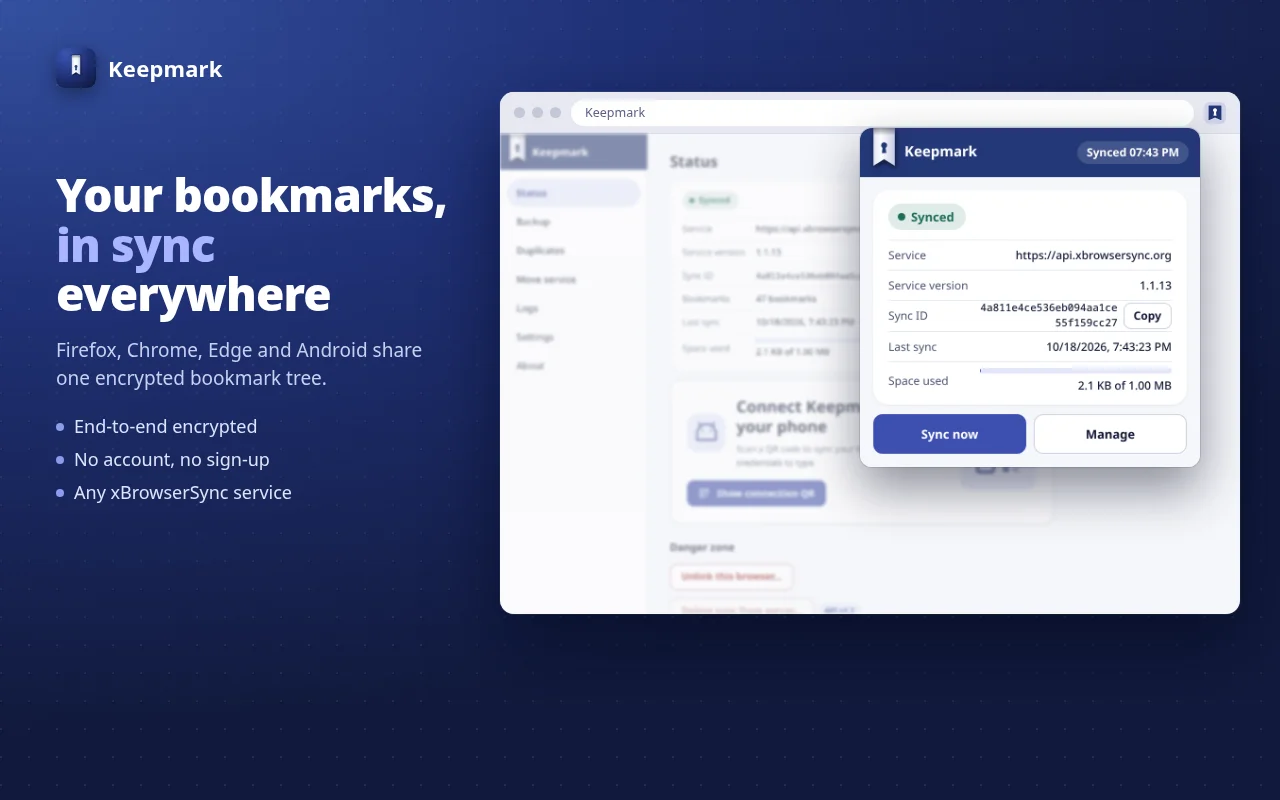
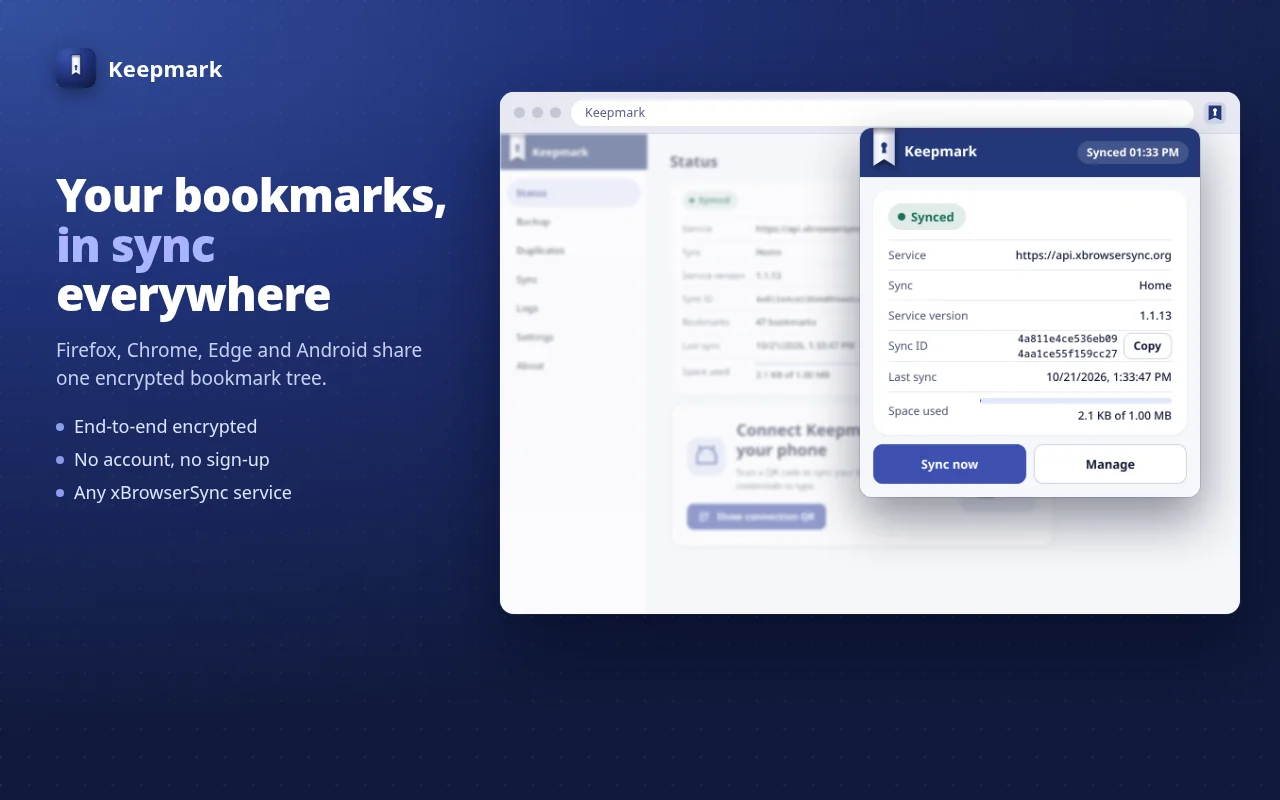
Landing: several syncs in the hero, features and browser gallery

Changed region(s): [[0.5312, 0.3438, 0.9375, 0.75], [0.5938, 0.3438, 0.6562, 0.4688], [0.4062, 0.3438, 0.4375, 0.375]]

diff --git a/index.html b/index.html
@@ -43,8 +43,9 @@
           Keepmark keeps the same bookmarks on all your browsers and your Android
           phone. Everything is encrypted on your device before it leaves: the
           server stores only ciphertext, and your password is never sent to it.
-          Linking a phone by QR hands the password from your browser to your own
-          phone, directly and only when you ask.
+          Keep several syncs side by side — work, home, family — and switch in a
+          click. Linking a phone by QR hands the password from your browser to
+          your own phone, directly and only when you ask.
         </p>
         <div class="cta">
           <a class="btn btn-primary" href="#get">Get Keepmark</a>
@@ -131,9 +132,9 @@
         <p>Find links saved more than once and remove them in bulk. The last copy of each link is always kept.</p>
       </div>
       <div class="card">
-        <div class="ico"><svg viewBox="0 0 24 24" fill="none" stroke="currentColor" stroke-width="2" stroke-linecap="round" stroke-linejoin="round"><path d="M5 12h14"/><path d="M13 6l6 6-6 6"/></svg></div>
-        <h3>Move between services</h3>
-        <p>Move your bookmarks to another server, into a new or existing sync, and change your sync password.</p>
+        <div class="ico"><svg viewBox="0 0 24 24" fill="none" stroke="currentColor" stroke-width="2" stroke-linecap="round" stroke-linejoin="round"><path d="M4 7h10"/><path d="M11 4l3 3-3 3"/><path d="M20 17H10"/><path d="M13 14l-3 3 3 3"/></svg></div>
+        <h3>Several syncs, one active</h3>
+        <p>Work, home, a shared family sync or a second server: every sync keeps its own service, password and bookmarks, and you switch in a click — optionally behind a short sync-change password.</p>
       </div>
     </div>
   </div>
@@ -176,6 +177,7 @@
       <p class="lead">An extension for Chrome, Edge and Brave (Manifest V3) and for Firefox.</p>
       <ul class="checks">
         <li><strong>Automatic sync</strong> of toolbar, menu and other bookmarks, plus a “Sync now” button.</li>
+        <li><strong>Several syncs saved</strong> side by side — work, home, family — with one active at a time and switching from the popup or the manager.</li>
         <li><strong>Link your phone by QR</strong> from the manager: no service, sync ID or password to type on the phone.</li>
         <li><strong>Choose your service</strong> from eight public hosts with country, size limit and API version, or from the custom URLs you already use.</li>
         <li><strong>Toolbar icon</strong> that follows your theme and shows at a glance whether you are in sync.</li>
@@ -190,10 +192,10 @@
     <div class="shots">
       <img src="img/browser-01-sync.webp" width="1280" height="800" alt="Keepmark extension showing sync status" loading="lazy" />
       <div class="pair">
-        <img src="img/browser-02-conflict.webp" width="1280" height="800" alt="Conflict choice with merge preview" loading="lazy" />
-        <img src="img/browser-04-dark.webp" width="1280" height="800" alt="Dark theme" loading="lazy" />
+        <img src="img/browser-02-syncs.webp" width="1280" height="800" alt="Several saved syncs: Home active, Work and Family inactive" loading="lazy" />
+        <img src="img/browser-05-dark.webp" width="1280" height="800" alt="Dark theme" loading="lazy" />
       </div>
-      <img src="img/browser-06-phone.webp" width="1280" height="800" alt="Connection QR for linking the phone from the manager" loading="lazy" />
+      <img src="img/browser-07-phone.webp" width="1280" height="800" alt="Connection QR for linking the phone from the manager" loading="lazy" />
     </div>
   </div>
 </section>
